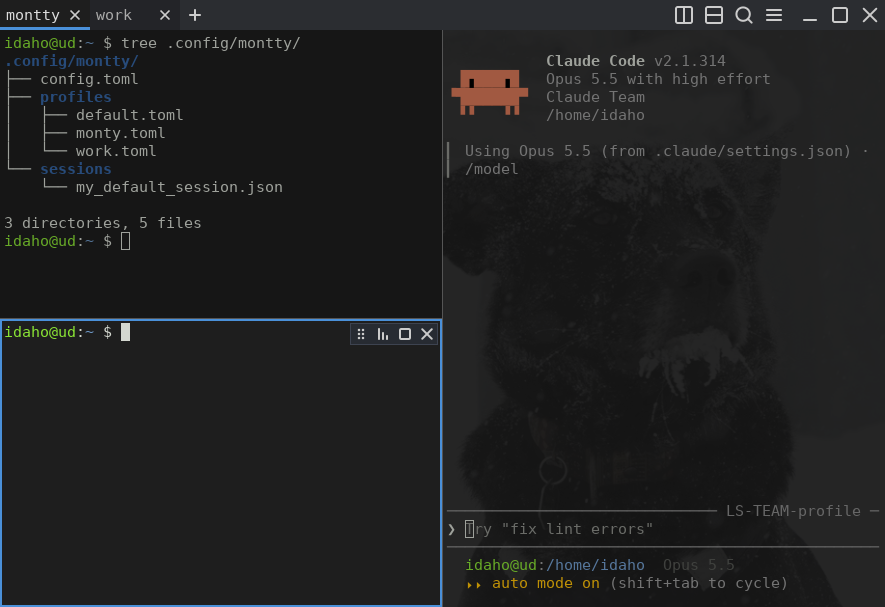
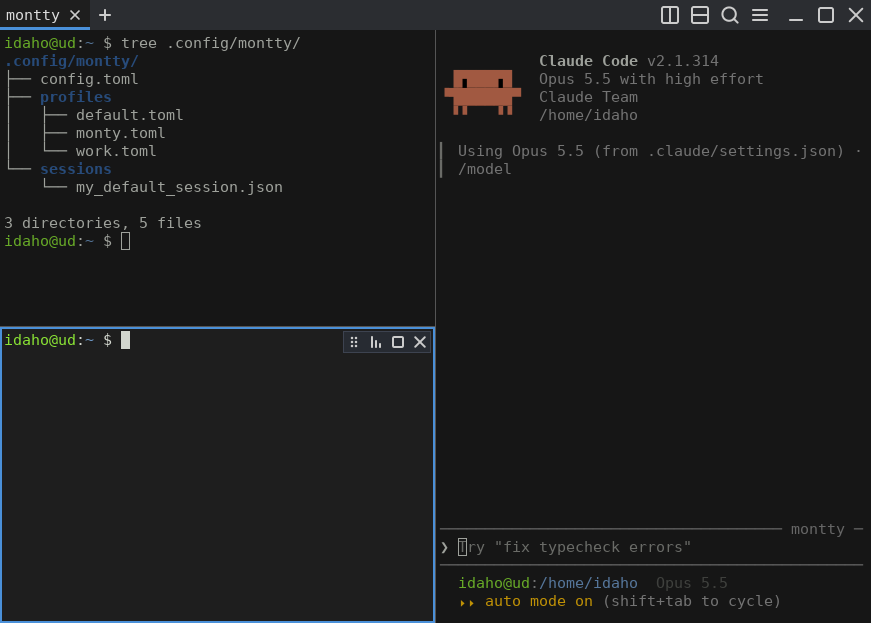
docs: new README screenshot

diff --git a/README.md b/README.md
@@ -4,7 +4,7 @@ A tiling terminal emulator for Linux, inspired by [Tilix](https://gnunn1.github.
 with no GTK or Qt. It keeps what makes Tilix pleasant (splitting panes, tabs, profiles, saved sessions) and aims to be
 small, fast and idle-quiet: it is drawn with OpenGL, runs on X11 and Wayland, and uses no CPU while nothing happens.
 
-![montty with two tabs and three panes: a file tree, a shell with the pane buttons shown, and Claude Code over a background image](docs/screenshot.png)
+![montty with three panes: a file tree, a shell with the pane buttons shown, and Claude Code](docs/screenshot.png)
 
 ## Features
 
